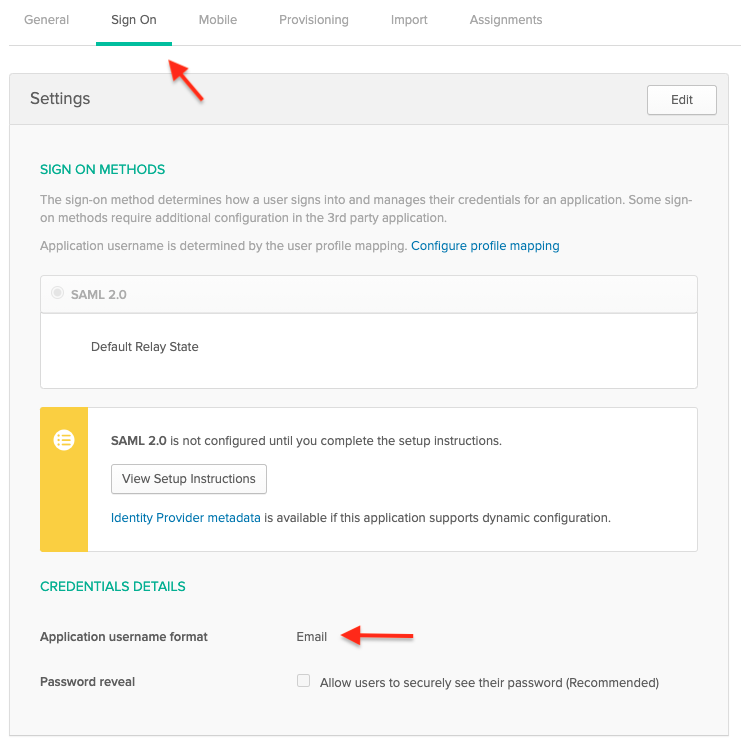
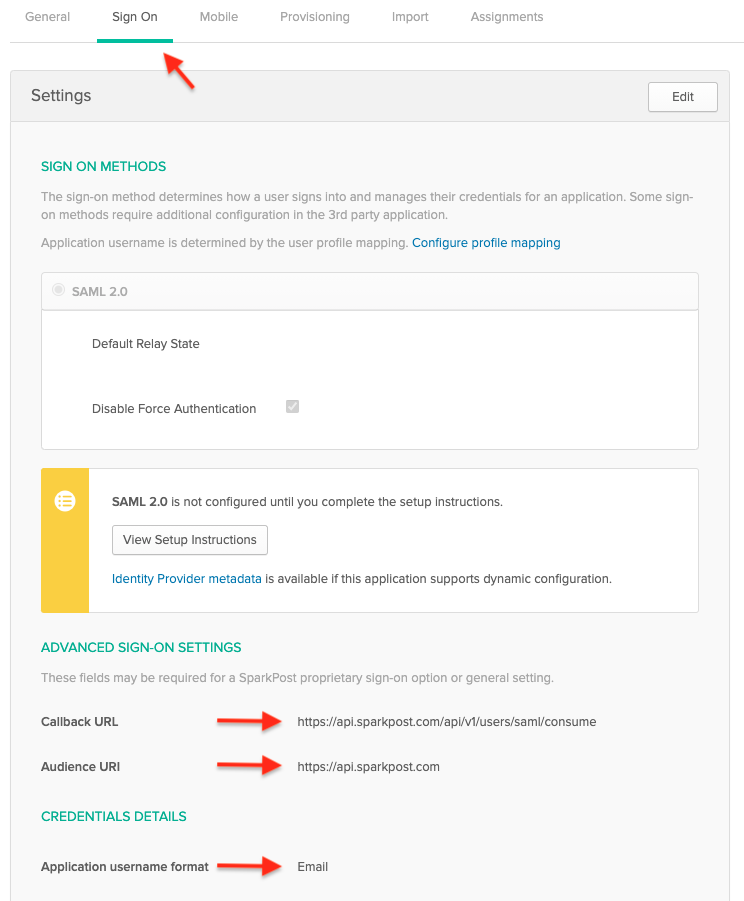
AC-1688 update guide based on sparkpost app

diff --git a/support/my-account-and-profile/scim.md b/support/my-account-and-profile/scim.md
@@ -27,55 +27,40 @@ description: "Learn how to enable SCIM user provisioning through Okta for your S
 
 ## Configuration in Okta
 1. From the Okta admin console, navigate to "Applications" and select the SparkPost app.
-1. Select the "General" tab. Under "App Settings" check the "Enable SCIM Provisioning" box.
-![](media/scim/enable_scim.png)
-
 1. Select the "Sign On" tab. Ensure that under "Credentials Details", "Application username format" is set to "Email".
+1. Click "View Setup Instructions" to setup SSO and get the Callback URL and Audience URI
 ![](media/scim/credential_details.png)
 
-1. Select the "Provisioning" tab, and from the "Integration" menu select "Edit".
+1. Select the "Provisioning" tab, and from the "Integration" menu click "Configure API Integration".
 ![](media/scim/scim_connection.png)
 
-1. In the "SCIM connector base URL" field:
+1. Check "Enable API Integration"
+1. In the "Base URL" field:
     - For US-hosted customers, enter `https://api.sparkpost.com/api/v1/users/scim/v2`
     - For EU-hosted customers, enter `https://api.eu.sparkpost.com/api/v1/users/scim/v2`
     - For Enterprise customers, enter `https://<host>/api/v1/users/scim/v2`
     
         *Enterprise customers: note that you must replace < host > with your SparkPost tenant name. Please see your TAM if you need assistance determining your callback URL.*
     
-1. Enter `email` in the "Unique identifier field for users"
-1. Under "Supported provisioning actions", check the following boxes:
-    - "Import New Users and Profile Updates"
-    - "Push New Users"
-    - "Push Profile Updates"
-1. From the "Authentication Mode" drop-down menu, select "HTTP Header".
-1. In the "HTTP Header" section, paste the token you generated [here](#generate-an-authorization-token) into the "Authorization" field.
-1. Click "Test Connector Configuration" to verify settings are correct.
+1. In the "API Token" field, paste the SCIM token you generated.
+1. Click "Test API Credentials" to verify settings are correct.
 1. Click "Save".
-1. In the "To App" section of the "Provisioning" tab, enable "Create Users", "Update User Attributes", and "Deactivate Users".
+![](media/scim/scim_test.png)
+
+1. In the "To App" section of the "Provisioning" tab, enable "Create Users", "Update User Attributes", and "Deactivate Users".  Click "Save".
 ![](media/scim/to_app_enable.png)
 
-1. In the "To App" section, delete all attribute mappings except "Given name", "Family name", and "Primary email".
-![](media/scim/to_app_mappings.png)
+## Import Existing SparkPost users
+1. Select the "Import" tab and click "Import Now"
+![](media/scim/import_users.png)
 
-1. To allow updating user roles:
-![](media/scim/to_app_add_role.png)
+1. Verify "Okta User Assignments" match existing users or create new users.
+1. Click "Confirm Assignments"
+1. Verify changes and click "Confirm".
+![](media/scim/verify_import.png)
 
-    - In the "To App" section, select "Go to Profile Editor".
-    - Select "Add Attribute".
-    - Enter the following values:
-        - Data type: string
-        - Display name: role
-        - Variable name: role
-        - External name: role
-        - External namespace: urn:ietf:params:scim:schemas:core:2.0:User
-        - Description: admin, reporting, templates, or developer
-    - Click "Save Attribute".
-1. In the "To Okta" section, delete all attribute mappings except "First name", "Last name", and "Primary email".
-![](media/scim/to_okta_mappings.png)
-
-1. In the "To Okta" section, next to "Imported user is an exact match to Okta user if", select "Email matches".
-![](media/scim/to_okta_email_matches.png)
+1. Verify users exist in SparkPost application.
+![](media/scim/sparkpost_users.png)
 
 ## Known Issues / Troubleshooting
 - N/A
